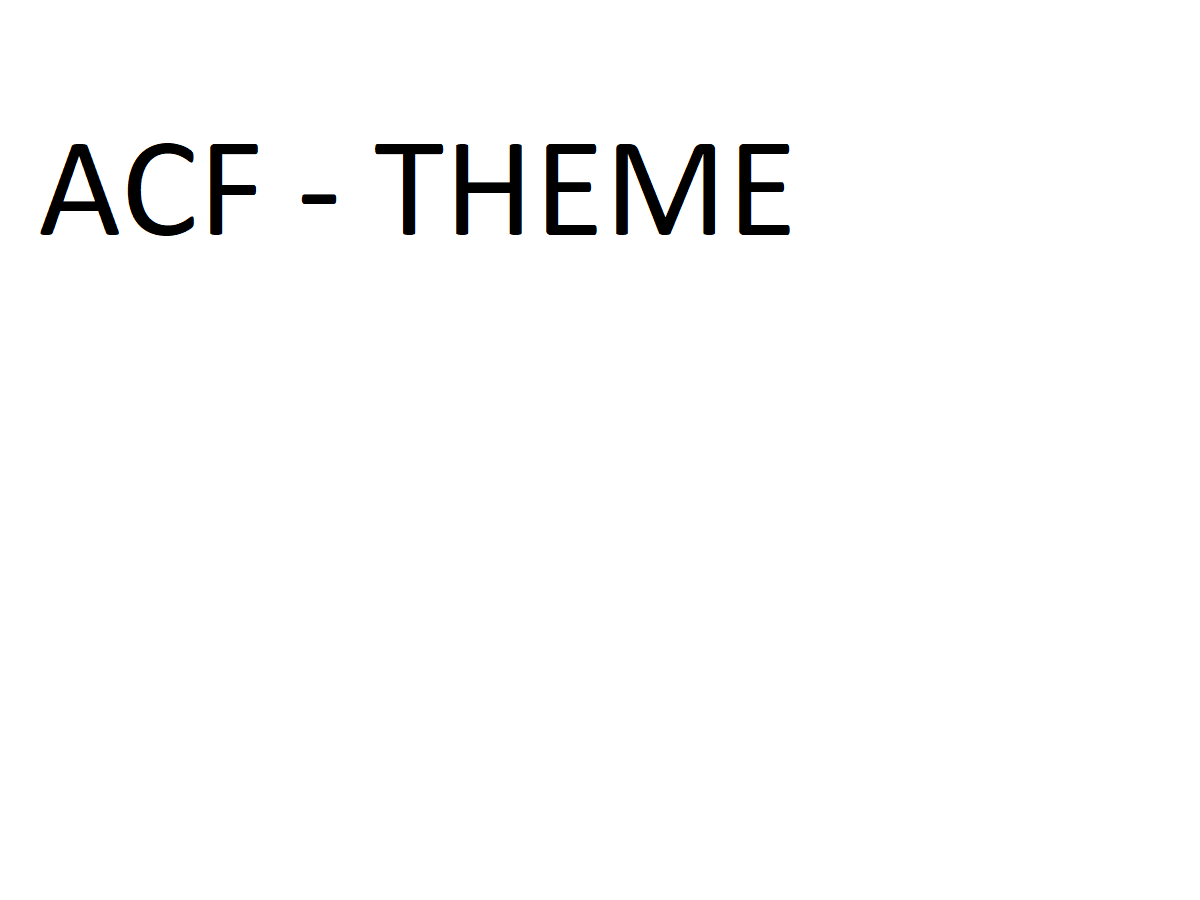
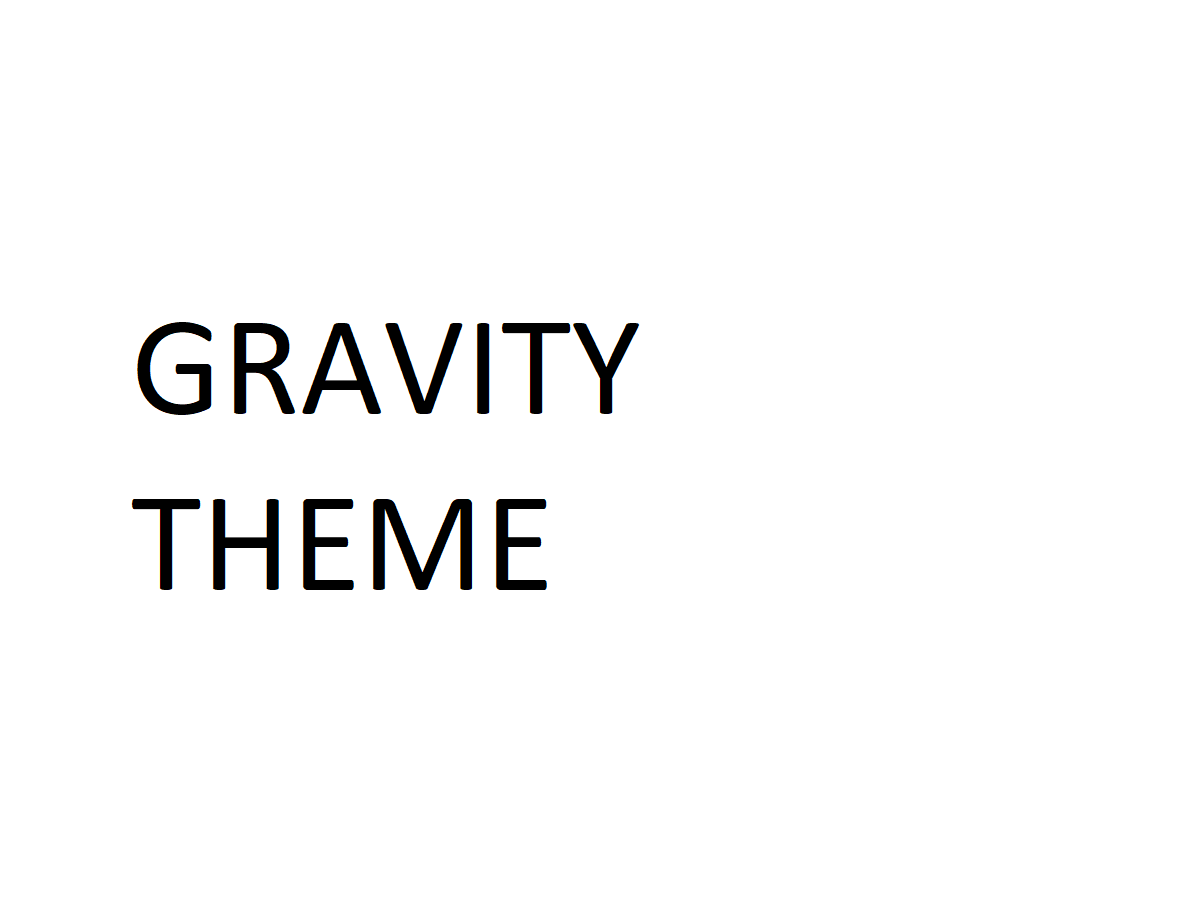
remove todo

diff --git a/style.css b/style.css
@@ -1,5 +1,5 @@
 /*
-Theme Name: ACF THEME
+Theme Name: GRAVITY  THEME
 Theme URI: https://wordpress.org/themes/twentysixteen/
 Author: the WordPress team
 Author URI: https://wordpress.org/
